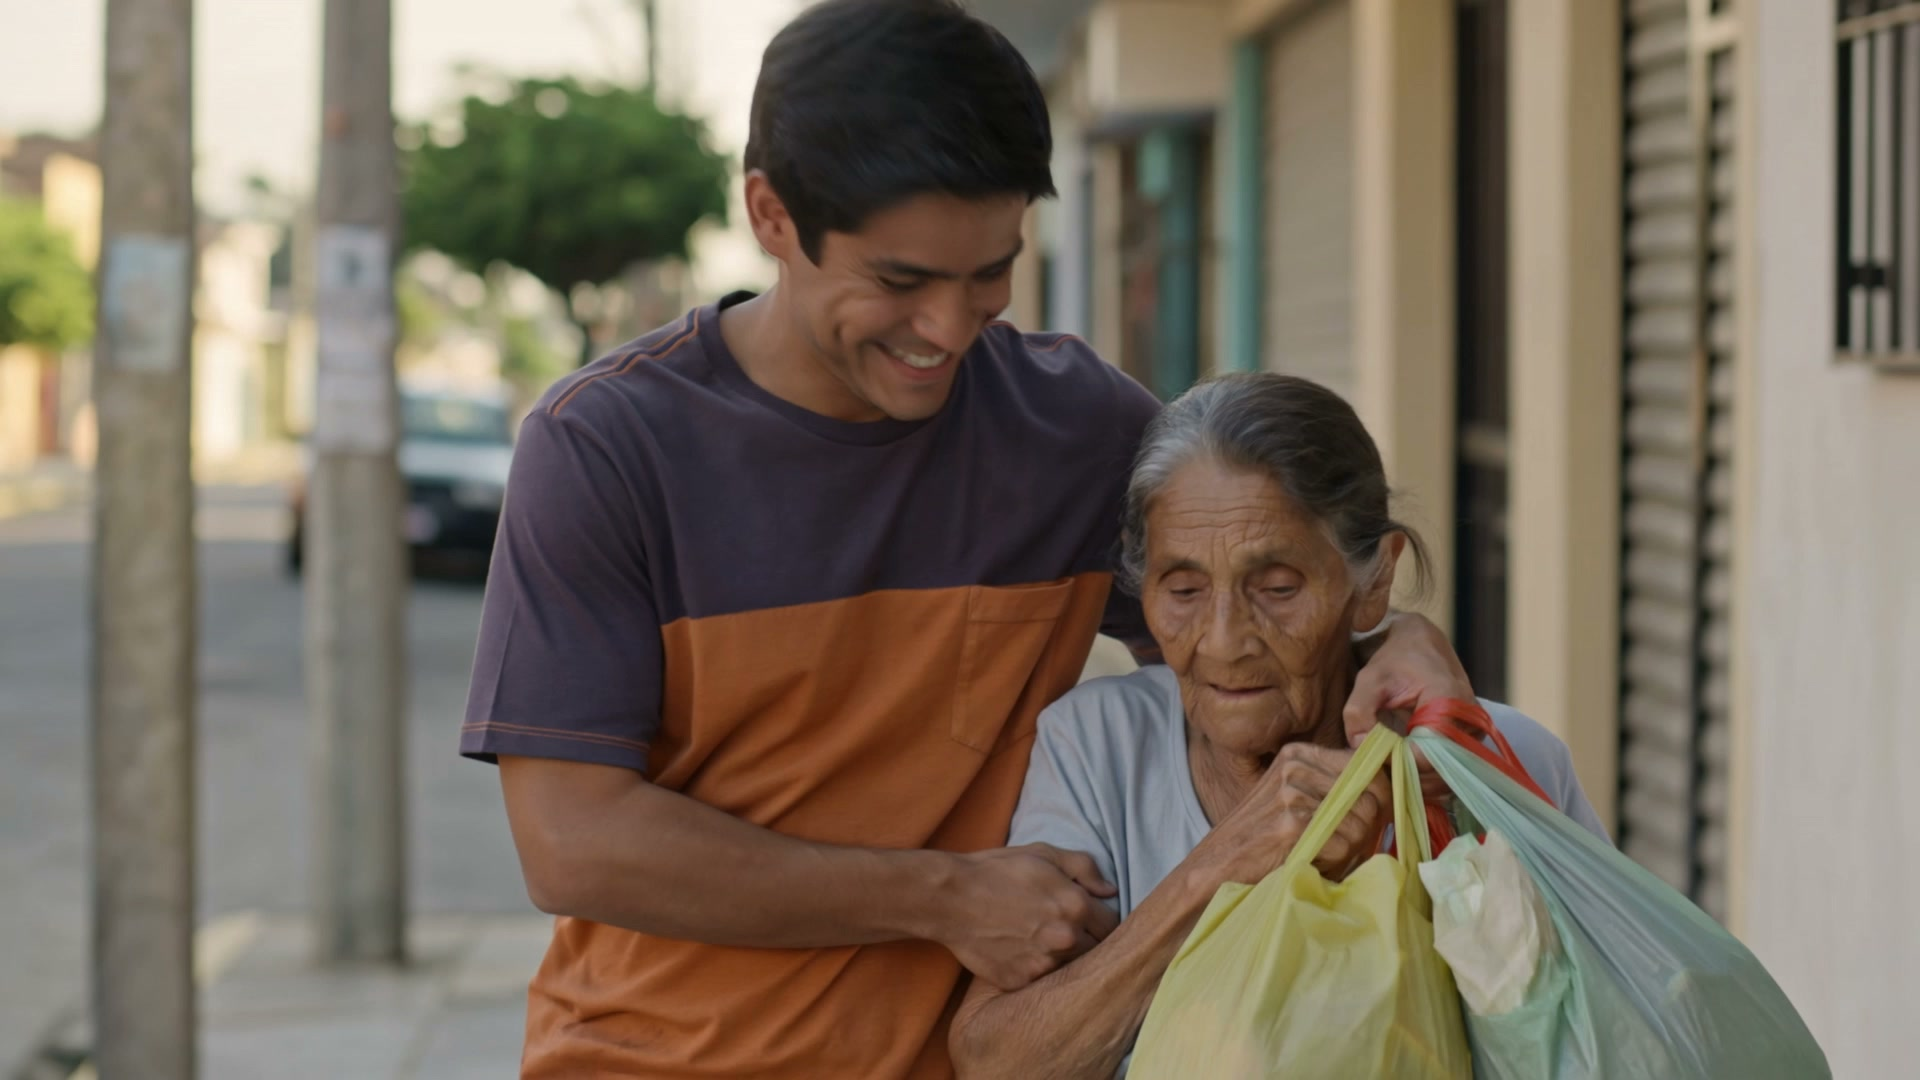
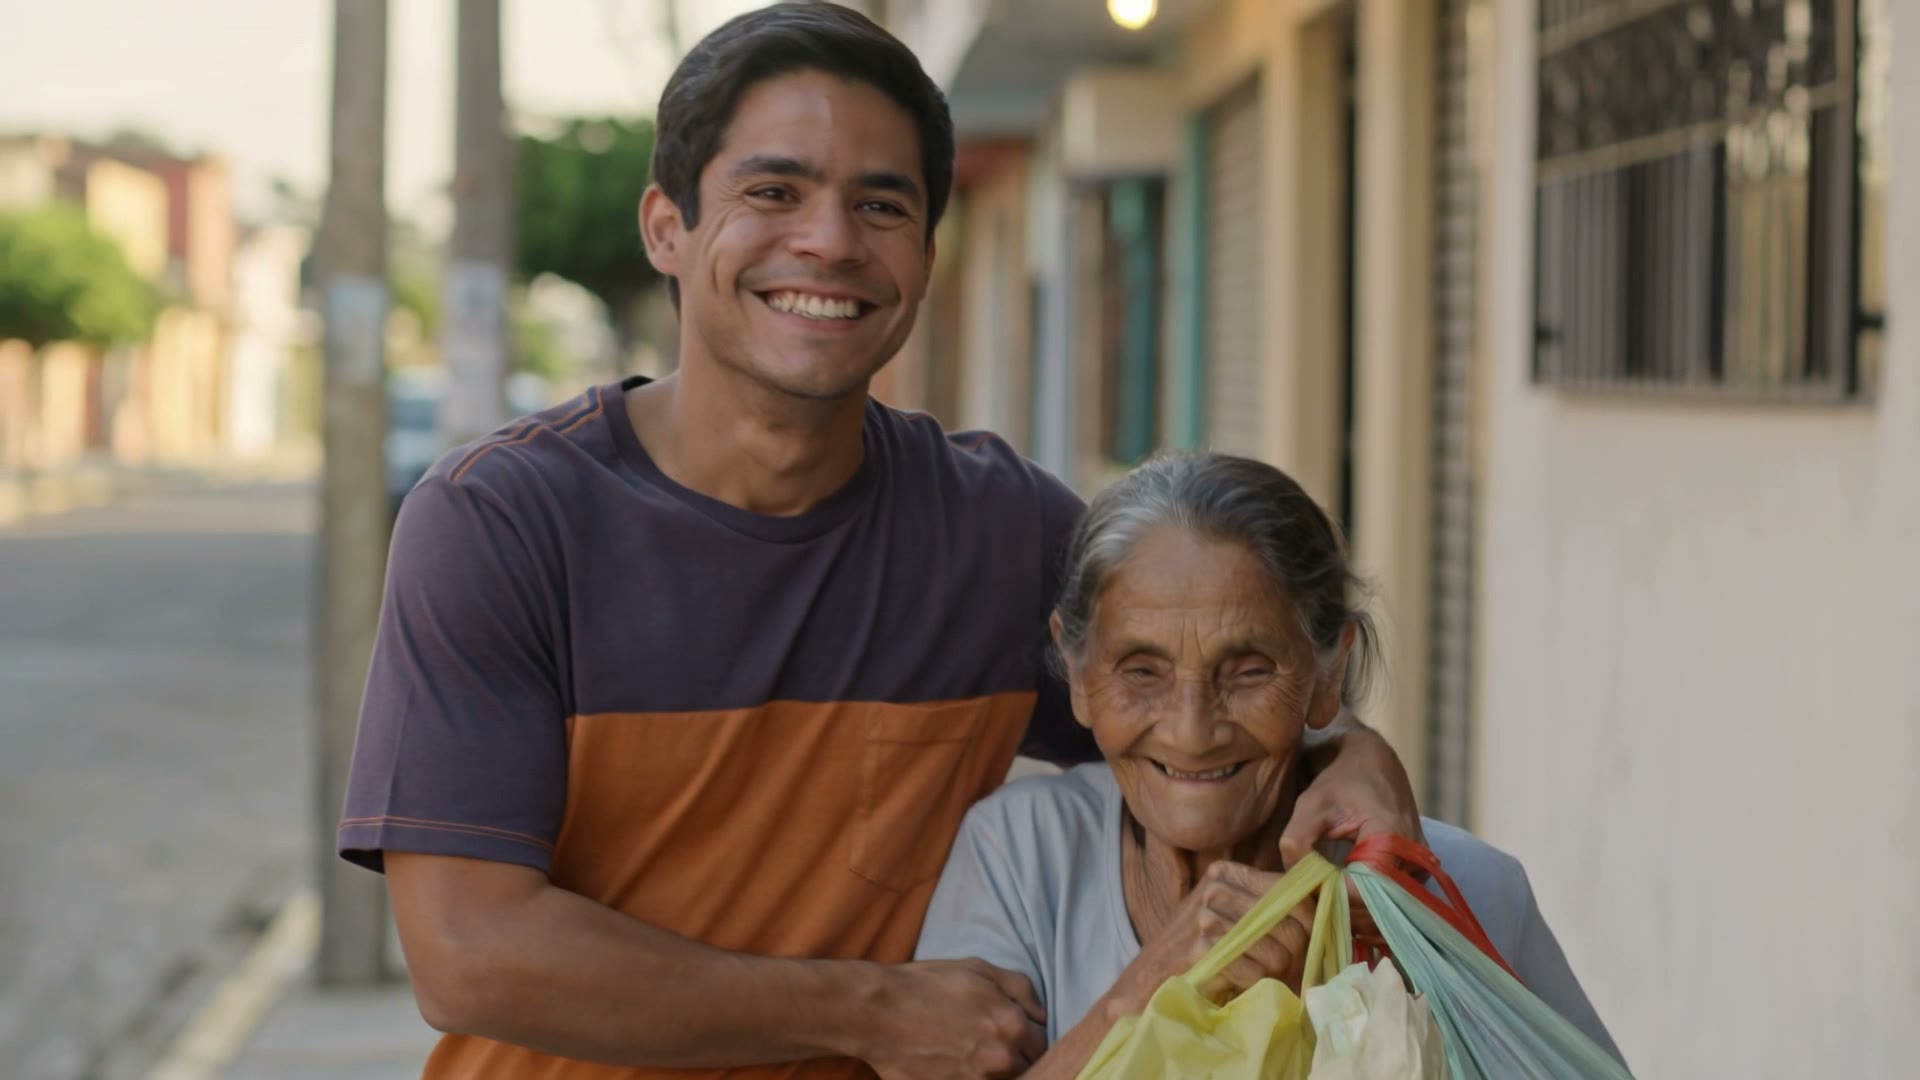
Optimizar carga móvil: WebP + video solo en desktop
- Video hero no se carga en móvil (ahorra 9.2 MB en el 98% de visitas)
- hero-poster extraído del último frame del video
- hero-poster.webp (46 KB vs 105 KB JPG)
- Imágenes pesadas convertidas a WebP: plaza, telefono, como-funciona, expansion, problema-*, solucion-visita, og-image

diff --git a/app/page.tsx b/app/page.tsx
@@ -75,6 +75,11 @@ function Nav() {
 
 function Hero({ onSelectRol }: { onSelectRol: (rol: string) => void }) {
   const videoRef = useRef<HTMLVideoElement>(null);
+  const [isDesktop, setIsDesktop] = useState(false);
+
+  useEffect(() => {
+    setIsDesktop(window.matchMedia("(min-width: 768px)").matches);
+  }, []);
 
   function irAFormulario(rol: string) {
     onSelectRol(rol);
@@ -83,19 +88,32 @@ function Hero({ onSelectRol }: { onSelectRol: (rol: string) => void }) {
 
   return (
     <section className="relative w-full h-screen overflow-hidden flex items-center justify-center">
-      {/* Video con poster del primer frame exacto — sin flash de imagen ajena */}
-      <video
-        ref={videoRef}
-        src="/video-hero.mp4"
-        autoPlay
-        muted
-        playsInline
-        poster="/images/hero-poster.jpg"
-        className="absolute inset-0 w-full h-full object-cover"
-        onEnded={() => {
-          if (videoRef.current) videoRef.current.pause();
-        }}
-      />
+      {/* Imagen de fondo siempre visible (último frame del video) */}
+      <picture>
+        <source srcSet="/images/hero-poster.webp" type="image/webp" />
+        <img
+          src="/images/hero-poster.jpg"
+          alt=""
+          aria-hidden="true"
+          fetchPriority="high"
+          className="absolute inset-0 w-full h-full object-cover"
+        />
+      </picture>
+      {/* Video solo en desktop — en móvil ahorra 9 MB */}
+      {isDesktop && (
+        <video
+          ref={videoRef}
+          src="/video-hero.mp4"
+          autoPlay
+          muted
+          playsInline
+          poster="/images/hero-poster.webp"
+          className="absolute inset-0 w-full h-full object-cover"
+          onEnded={() => {
+            if (videoRef.current) videoRef.current.pause();
+          }}
+        />
+      )}
 
       {/* Overlay oscuro */}
       <div
